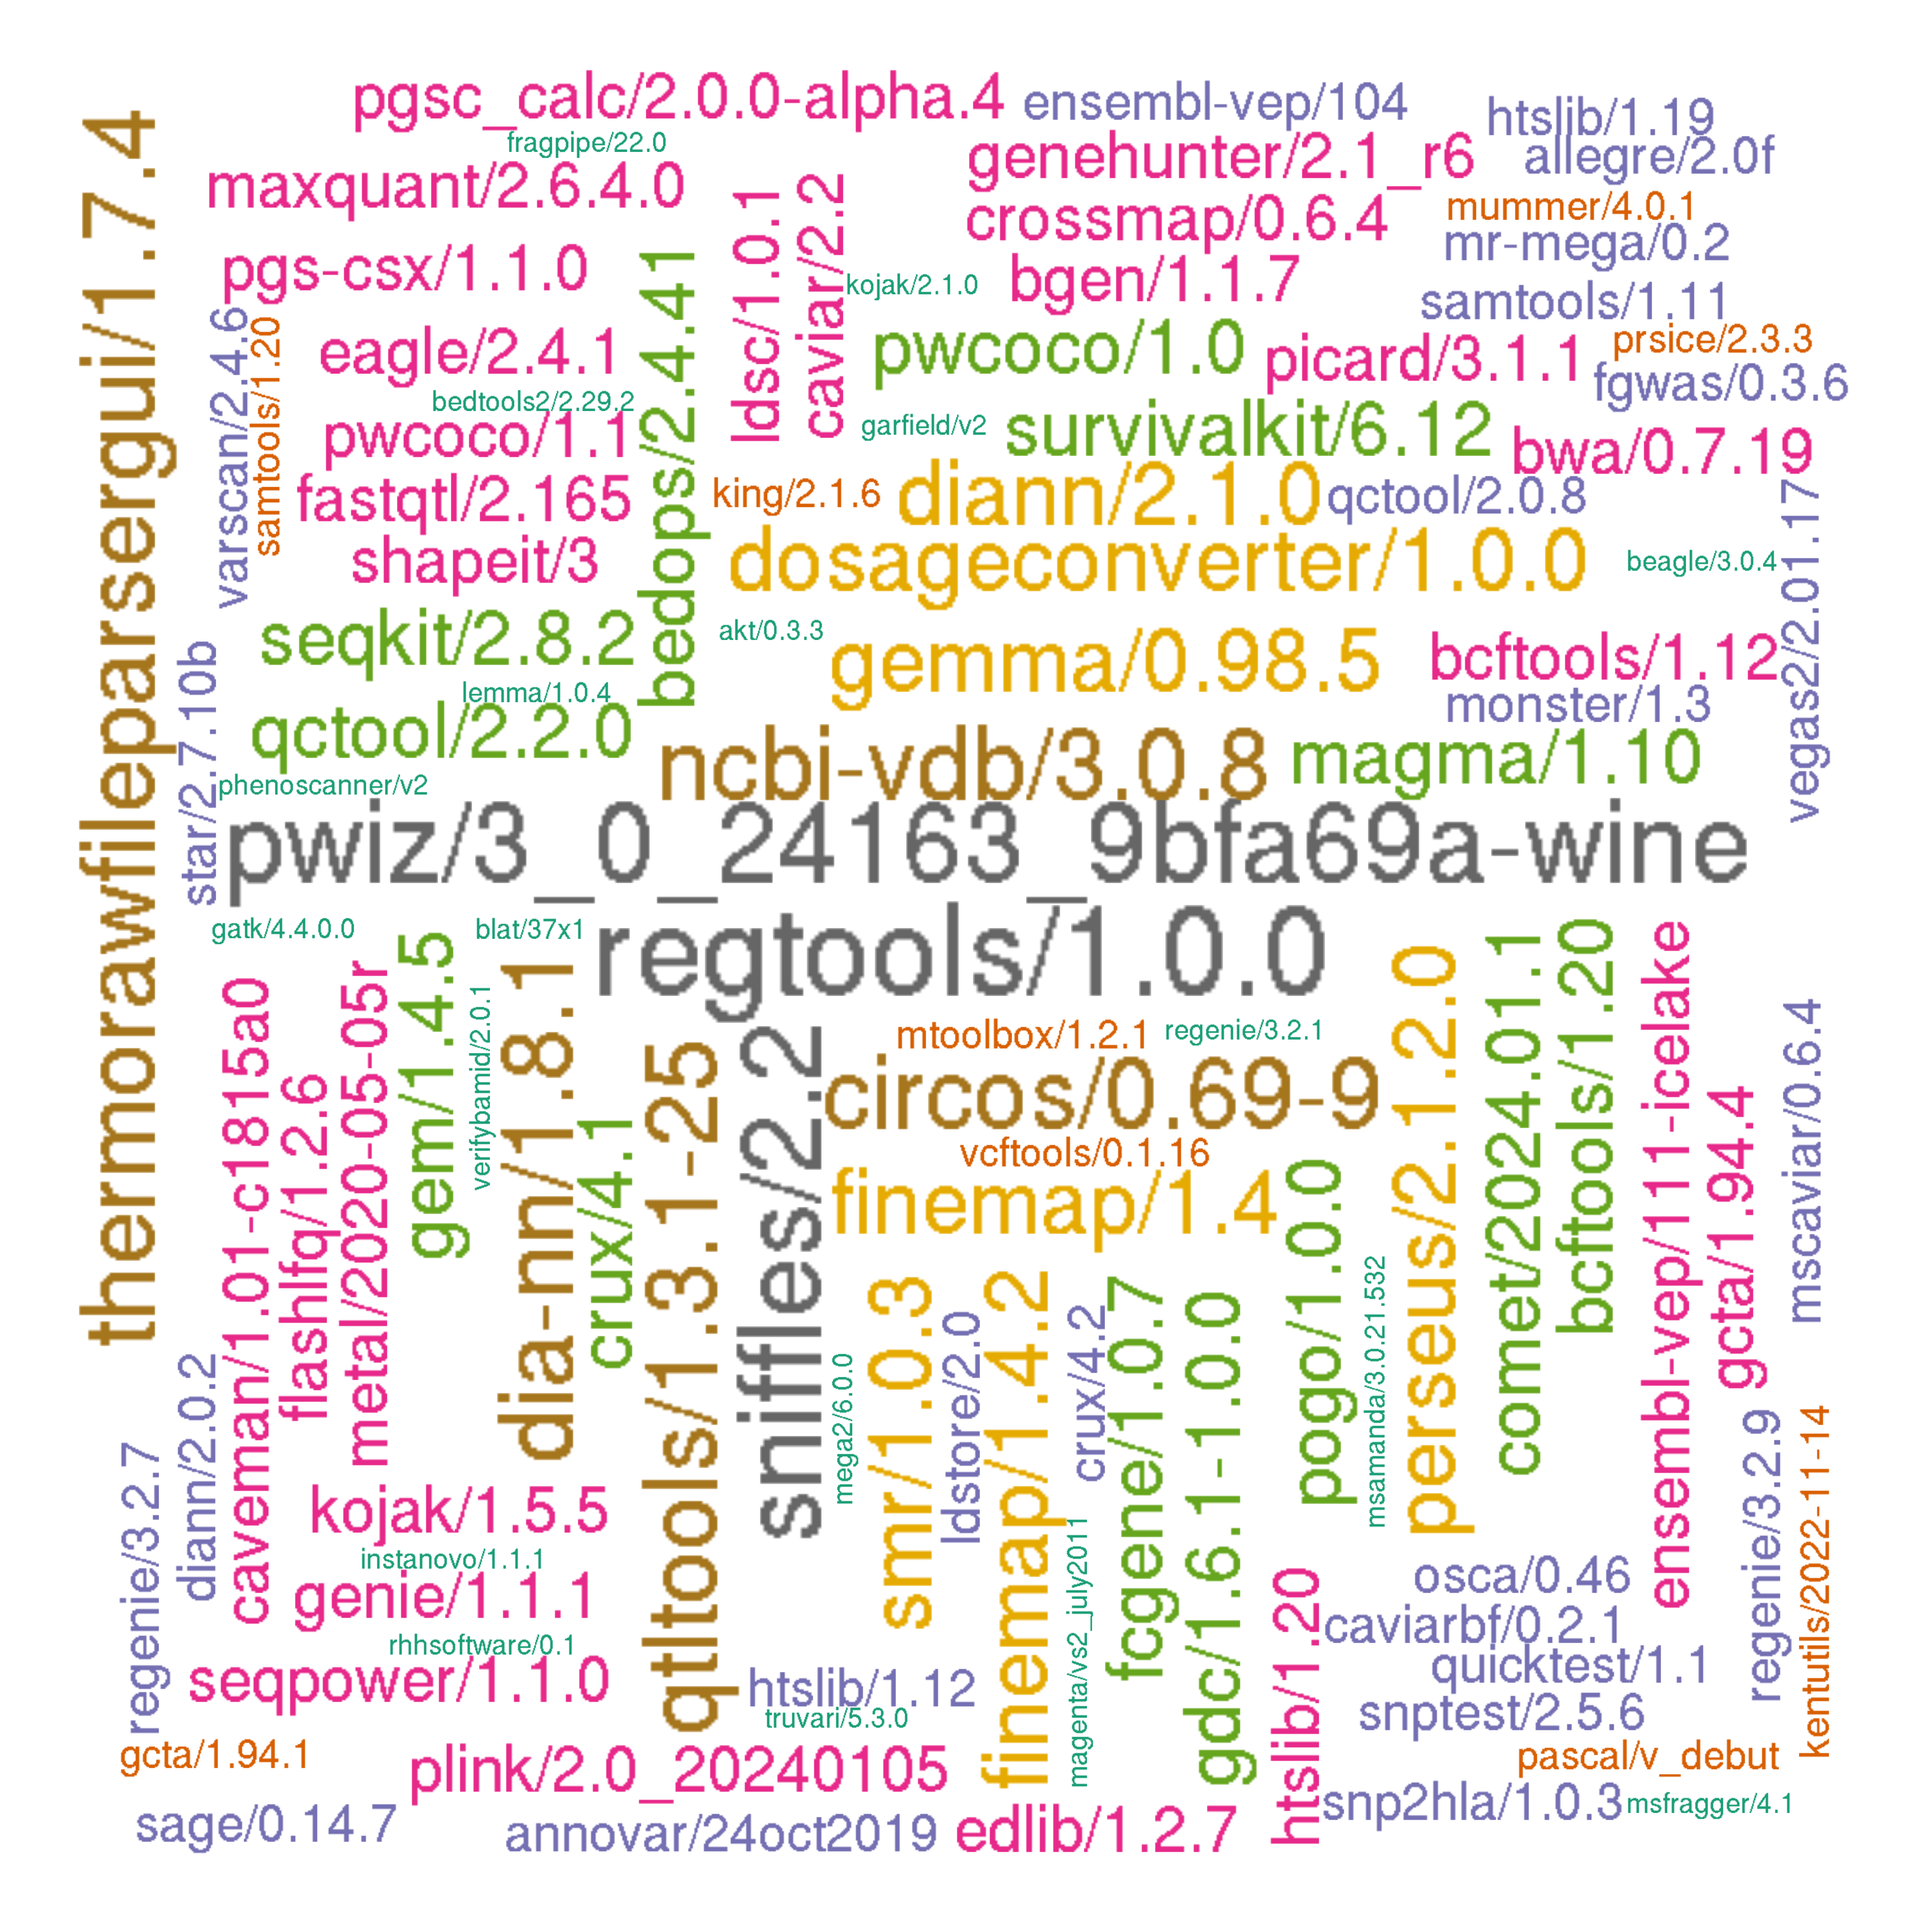
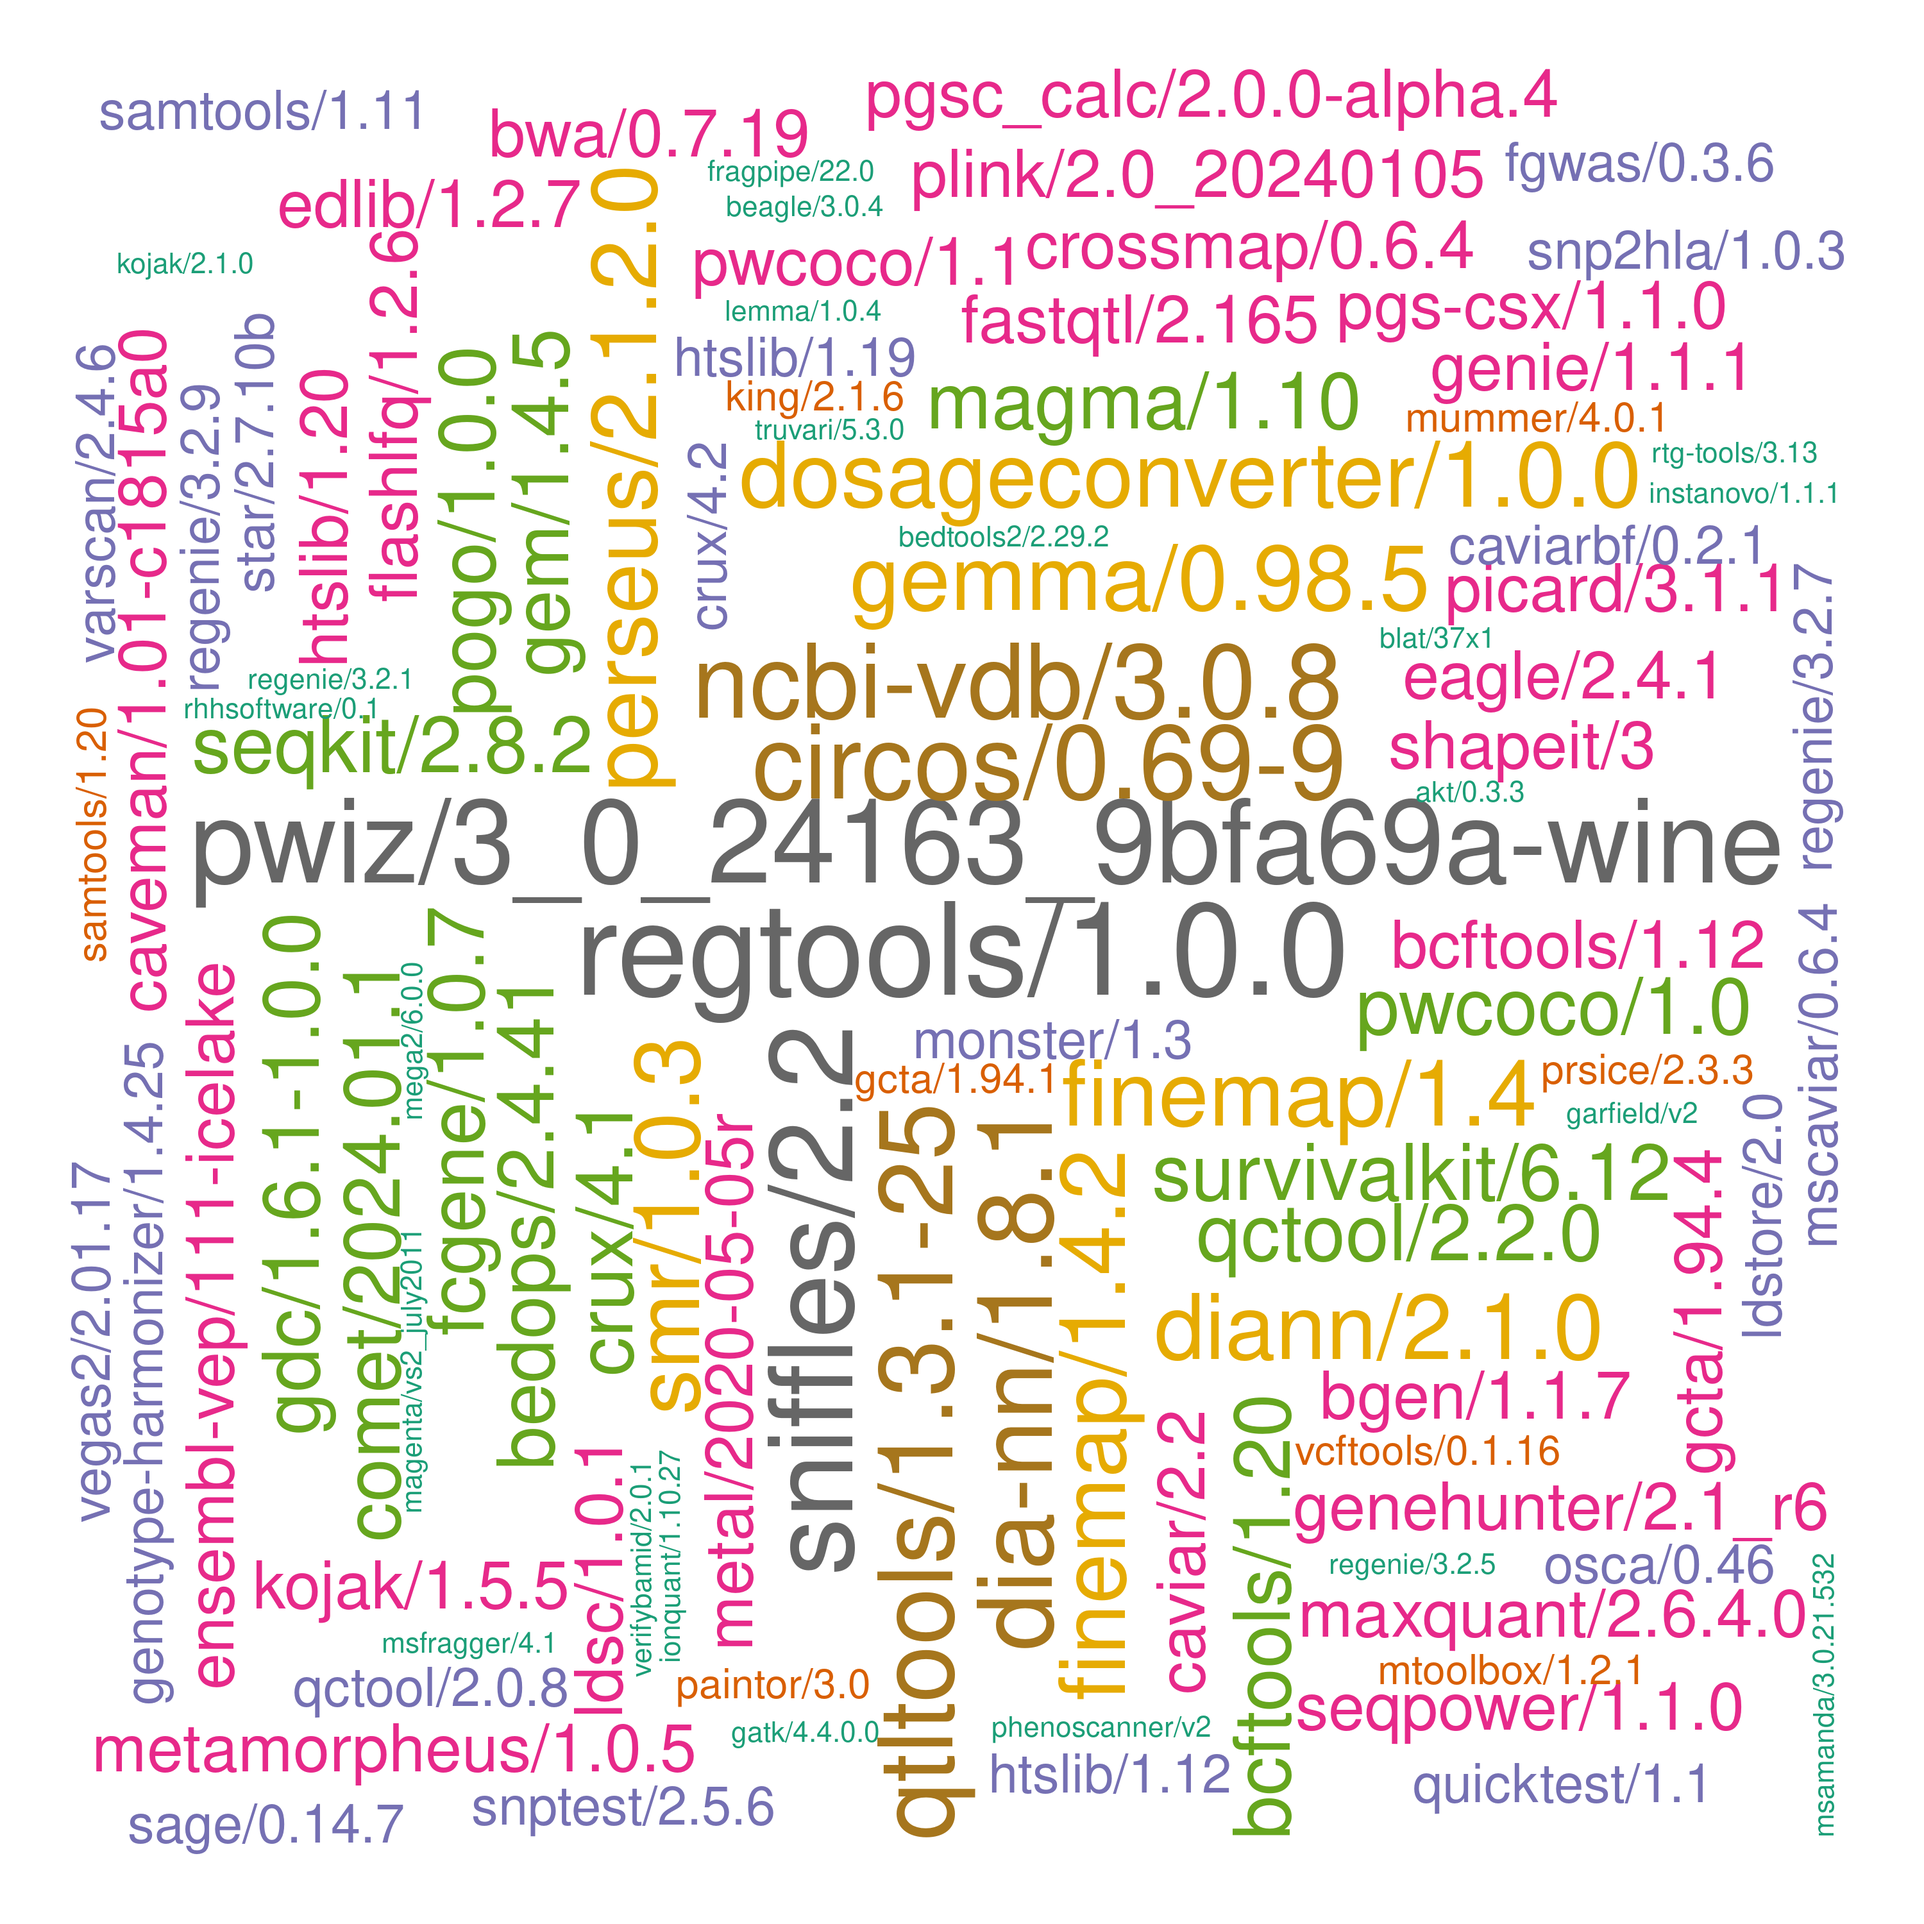
./

Changed region(s): [[0.031, 0.031, 0.961, 0.961]]

diff --git a/systems/ceuadmin.md b/systems/ceuadmin.md
@@ -76,28 +76,28 @@ The current list is as follows,
 [233] "plink"                  "plink-bgi"              "plinkseq"               "podman"
 [237] "PoGo"                   "polyphen"               "poppler"                "popt"
 [241] "proj"                   "PRSice"                 "pspp"                   "pulsar"
-[245] "PWCoCo"                 "pwiz"                   "qctool"                 "qemu"
-[249] "qpdf"                   "qt"                     "qtcreator"              "QTLtools"
-[253] "quarto"                 "quicktest"              "R"                      "raremetal"
-[257] "rclone"                 "readline"               "regenie"                "regtools"
-[261] "RHHsoftware"            "RSEM"                   "rst2pdf"                "rstudio"
-[265] "rtg-tools"              "rtmpdump"               "ruby"                   "rust"
-[269] "sage"                   "samtools"               "Scala"                  "scGPT"
-[273] "seqkit"                 "SEQPower"               "shapeit"                "singularity"
-[277] "SMR"                    "snakemake"              "sniffles"               "SNP2HLA"
-[281] "snptest"                "spread-sheet-widget"    "spyder"                 "sqlite"
-[285] "sra-tools"              "sshpass"                "ssw"                    "STAR"
-[289] "stata"                  "SurvivalAnalysis"       "SurvivalKit"            "SuSiEx"
-[293] "SVanalyzer"             "Swift"                  "SYMPHONY"               "Synapse"
-[297] "tabix"                  "tandem"                 "tatami"                 "tesseract"
-[301] "texinfo"                "ThermoRawFileParser"    "ThermoRawFileParserGUI" "thunderbird"
-[305] "tidy"                   "tiff"                   "trinculo"               "trousers"
-[309] "truvari"                "Typora"                 "unbound"                "uv"
-[313] "vala"                   "VarScan"                "vcftools"               "vdo"
-[317] "VEGAS2"                 "verifyBamID"            "VirtualBox"             "VSCode"
-[321] "VSCodium"               "vte"                    "Windsurf"               "wine"
-[325] "wrk"                    "xpdf"                   "yaml-cpp"               "Zettlr"
-[329] "Zotero"                 "zstd"
+[245] "PWCoCo"                 "pwiz"                   "python"                 "qctool"
+[249] "qemu"                   "qpdf"                   "qt"                     "qtcreator"
+[253] "QTLtools"               "quarto"                 "quicktest"              "R"
+[257] "raremetal"              "rclone"                 "readline"               "regenie"
+[261] "regtools"               "RHHsoftware"            "RSEM"                   "rst2pdf"
+[265] "rstudio"                "rtg-tools"              "rtmpdump"               "ruby"
+[269] "rust"                   "sage"                   "samtools"               "Scala"
+[273] "scGPT"                  "seqkit"                 "SEQPower"               "shapeit"
+[277] "singularity"            "SMR"                    "snakemake"              "sniffles"
+[281] "SNP2HLA"                "snptest"                "spread-sheet-widget"    "spyder"
+[285] "sqlite"                 "sra-tools"              "sshpass"                "ssw"
+[289] "STAR"                   "stata"                  "SurvivalAnalysis"       "SurvivalKit"
+[293] "SuSiEx"                 "SVanalyzer"             "Swift"                  "SYMPHONY"
+[297] "Synapse"                "tabix"                  "tandem"                 "tatami"
+[301] "tesseract"              "texinfo"                "ThermoRawFileParser"    "ThermoRawFileParserGUI"
+[305] "thunderbird"            "tidy"                   "tiff"                   "trinculo"
+[309] "trousers"               "truvari"                "Typora"                 "unbound"
+[313] "uv"                     "vala"                   "VarScan"                "vcftools"
+[317] "vdo"                    "VEGAS2"                 "verifyBamID"            "VirtualBox"
+[321] "VSCode"                 "VSCodium"               "vte"                    "Windsurf"
+[325] "wine"                   "wrk"                    "xpdf"                   "yaml-cpp"
+[329] "Zettlr"                 "Zotero"                 "zstd"
 ```
 
 These are wrapped up as :star::star::star: **[modules](https://modules.readthedocs.io/en/latest/index.html)** :star::star::star:.

diff --git a/systems/setup.md b/systems/setup.md
@@ -454,6 +454,7 @@ All entries are ordered chronologically.
 | ""          | LLM/0.26                         | Genetic[^llm]        |
 | ""          | llama.cpp/b6119                  | Genetic              |
 | ""          | gsutil/5.35                      | Generic              |
+| ""          | python/3.12.10                   | Generic              |
 
 \* CEU or approved users only.
 

diff --git a/applications/gsutil.md b/applications/gsutil.md
@@ -10,7 +10,7 @@ Web site: <https://cloud.google.com/storage/docs/gsutil_install#linux>
 
 ### 5.35
 
-This release has a generic naming.
+This release has a generic naming with embedded python 3.12.10, which can be accessed independely with ceuadmin/python/3.12.10.
 
 ```bash
 wget https://dl.google.com/dl/cloudsdk/channels/rapid/downloads/google-cloud-cli-linux-x86_64.tar.gz
